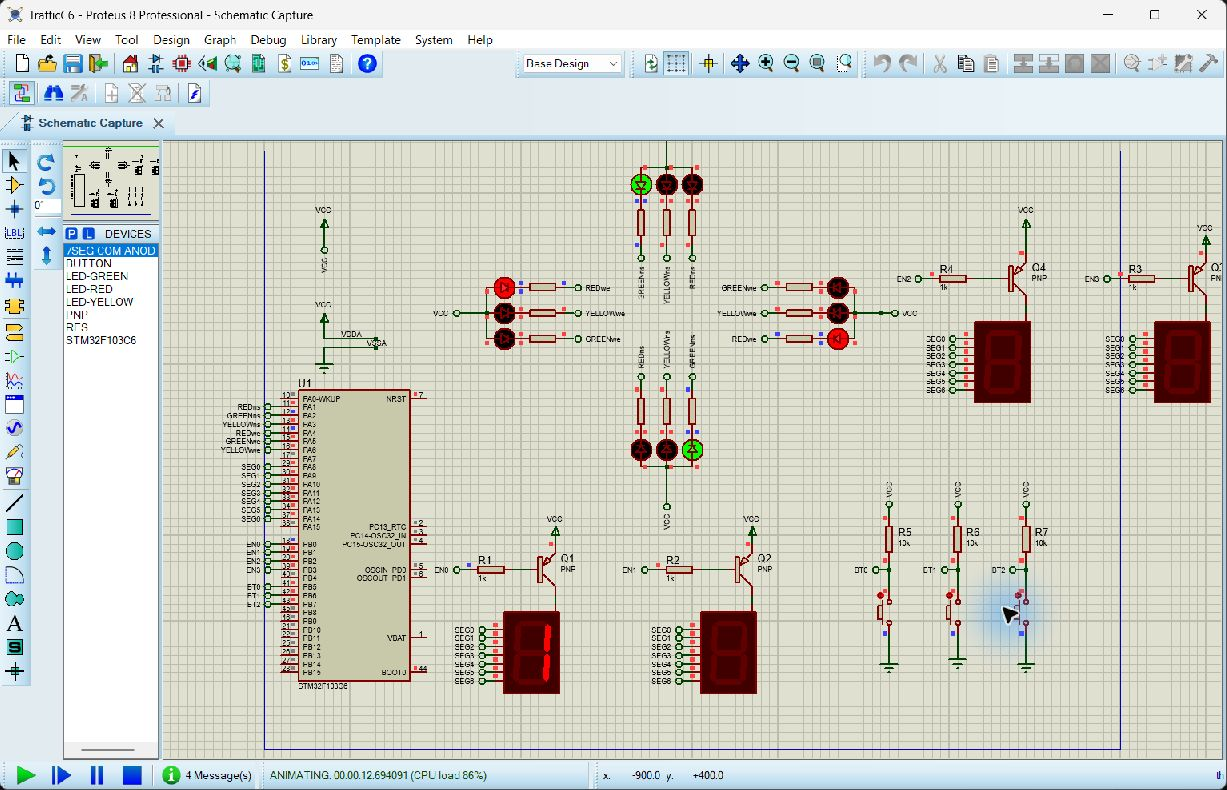
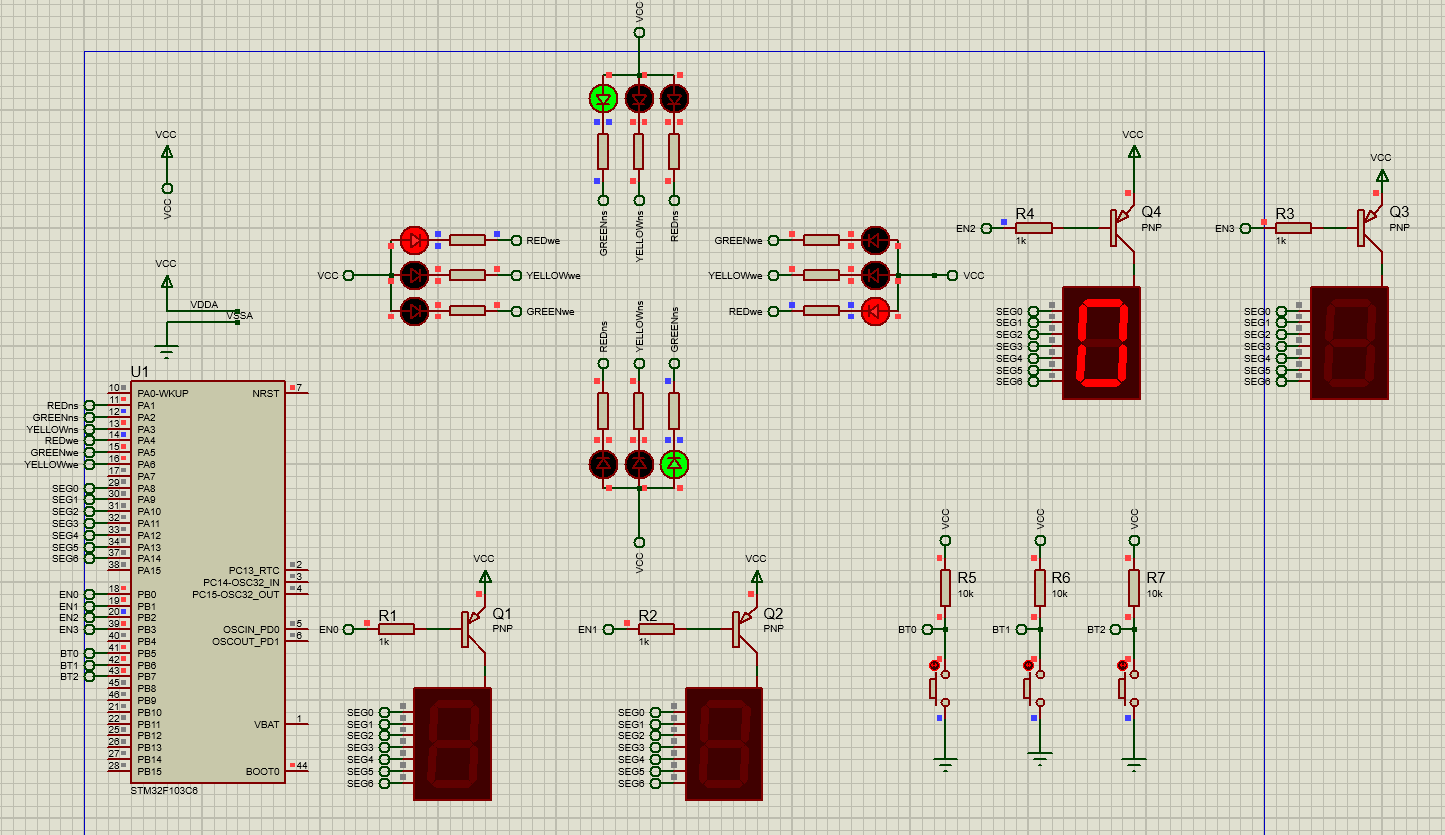
Show both traffic phases in the Proteus screenshots

diff --git a/docs/verification.md b/docs/verification.md
@@ -18,9 +18,11 @@ TIM2 generates the 10 ms tick from an 8 MHz clock with prescaler 7999 and auto-r
 
 ## Proteus
 
-On 22 November the C6 circuit ran in Proteus 8.10. Both directions took a turn at green while the other stayed red. The screenshot is from the earlier firmware. Commit `4df019e` updated the demo HEX. The C6 circuit has LEDs and buttons, with no DHT20 or LCD.
+On 22 November the C6 circuit ran in Proteus 8.10. Both directions took a turn at green while the other stayed red. Commit `4df019e` updated the demo HEX. The C6 circuit has LEDs and buttons, with no DHT20 or LCD.
 
-![C6 simulation with the vertical road green and the horizontal road red](proteus-c6.png)
+| North-south green, east-west red | East-west green, north-south red |
+|---|---|
+| ![North-south green](proteus-c6.png) | ![East-west green](proteus-c6-east-west.png) |
 
 The original assignment schematic stopped at an undefined 3.3 V rail. The copy in this repository fixes the rail. Proteus then reported `No model specified` for U1 (STM32F103R8T6) and U12 (SEN-18364).
 
